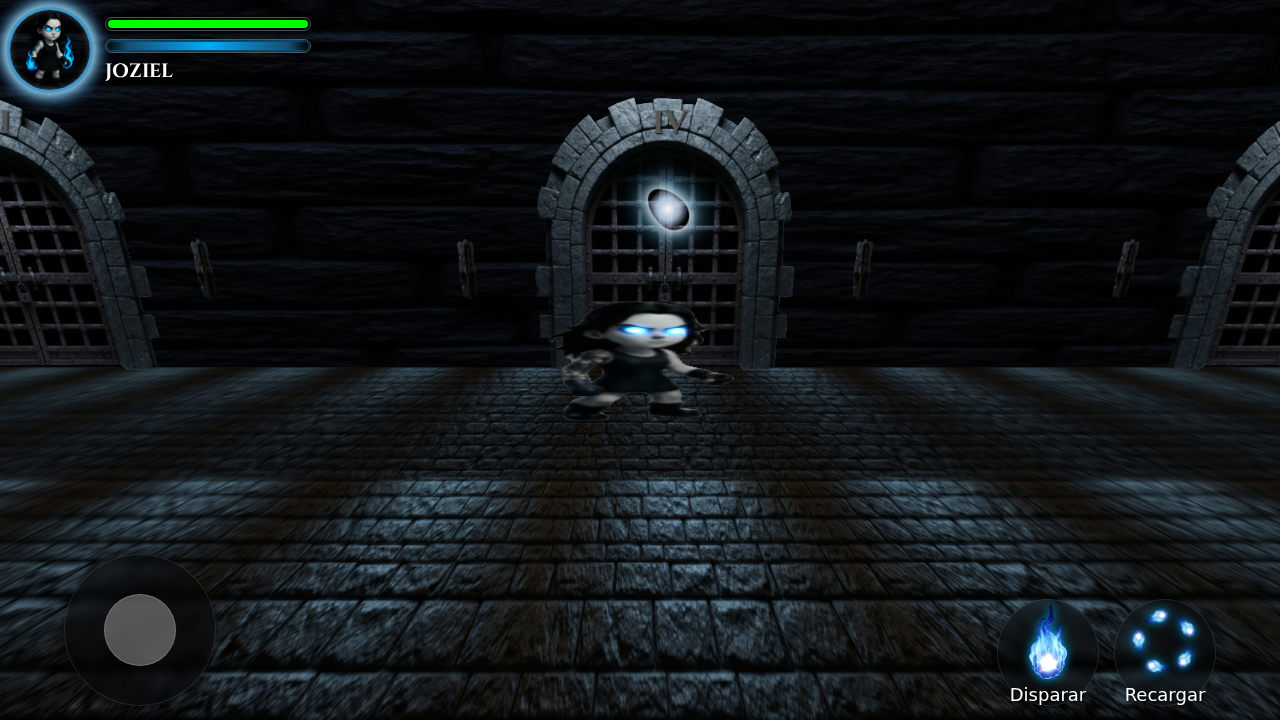
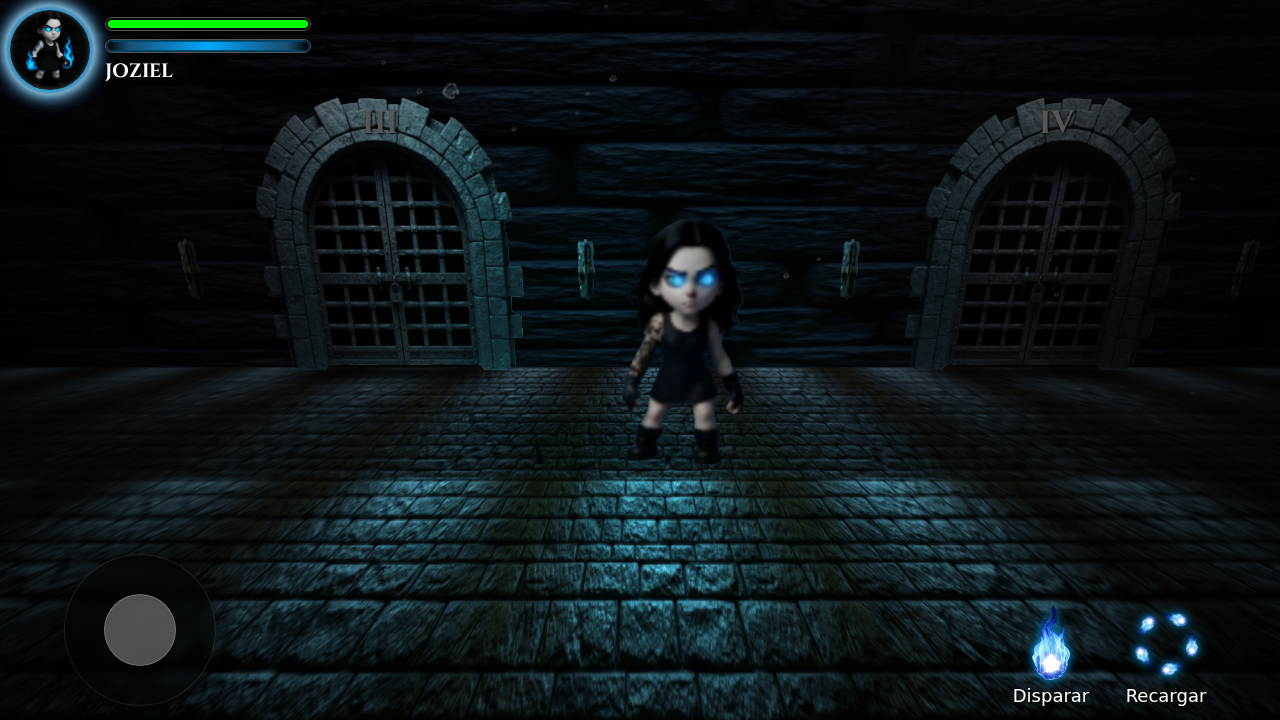
Implement dedicated Left Idle sprite (idle-B.png)
- Added `idleBackSprite` to asset configuration.
- Updated `Player` class to load and use `idle-B.png` when facing left in idle state.
- Modified rotation logic to prevent mirroring (rotation Y=0) for left-facing idle.
- Adjusted shadow/glow mesh scaling for correct orientation in left-idle state.

diff --git a/Lumenfall-juego/js/game.js b/Lumenfall-juego/js/game.js
@@ -5,6 +5,7 @@
             runningBackSprite: 'assets/sprites/Joziel/Movimiento-B/Movimiento-B-1.png',
             runningShadowSprite: 'assets/sprites/Joziel/Sombras-efectos/Sombra-correr-1.jpg',
             idleSprite: 'assets/sprites/Joziel/Movimiento/Idle.png',
+            idleBackSprite: 'assets/sprites/Joziel/Movimiento-B/idle-B.png',
             idleShadowSprite: 'assets/sprites/Joziel/Sombras-efectos/Idle-sombra.jpg',
             attackSprite: 'assets/sprites/Joziel/attack_sprite_sheet.png',
     jumpSprite: 'assets/sprites/Joziel/Movimiento/saltar.png',
@@ -1042,6 +1043,7 @@ function triggerDistantThunder() {
                 this.runningBackTexture = textureLoader.load(assetUrls.runningBackSprite);
                 this.runningShadowTexture = textureLoader.load(assetUrls.runningShadowSprite);
                 this.idleTexture = textureLoader.load(assetUrls.idleSprite);
+                this.idleBackTexture = textureLoader.load(assetUrls.idleBackSprite);
                 this.idleShadowTexture = textureLoader.load(assetUrls.idleShadowSprite);
                 this.attackTexture = textureLoader.load(assetUrls.attackSprite);
                 this.jumpTexture = textureLoader.load(assetUrls.jumpSprite);
@@ -1054,6 +1056,7 @@ function triggerDistantThunder() {
 
                 // Configurar texturas de Idle (Strip 1x5)
                 this.idleTexture.repeat.set(1 / totalIdleFrames, 1);
+                this.idleBackTexture.repeat.set(1 / totalIdleFrames, 1);
                 this.idleShadowTexture.repeat.set(1 / totalIdleFrames, 1);
 
         // Configurar texturas de Salto
@@ -1533,8 +1536,8 @@ function triggerDistantThunder() {
                 this.mesh.position.x = Math.max(this.minPlayerX, Math.min(this.maxPlayerX, this.mesh.position.x));
 
                 // Rotación del personaje
-                if (this.isFacingLeft && (this.currentState === 'running' || this.currentState === 'jumping' || this.currentState === 'landing')) {
-                     // Caso especial: Running, Jumping, Landing Left usa sprites (Movimiento-B, saltar-b) que ya están orientados a la izquierda
+                if (this.isFacingLeft && (this.currentState === 'running' || this.currentState === 'jumping' || this.currentState === 'landing' || this.currentState === 'idle')) {
+                     // Caso especial: Running, Jumping, Landing Left y Idle Left usa sprites (Movimiento-B, saltar-b, idle-B) que ya están orientados a la izquierda
                      this.mesh.rotation.y = 0;
                 } else {
                      this.mesh.rotation.y = this.isFacingLeft ? Math.PI : 0;
@@ -1568,7 +1571,7 @@ function triggerDistantThunder() {
         }
 
                 const stateChanged = this.currentState !== previousState;
-        const directionChanged = (this.currentState === 'running' || this.currentState === 'jumping' || this.currentState === 'landing') && this.isFacingLeft !== wasFacingLeft;
+        const directionChanged = (this.currentState === 'running' || this.currentState === 'jumping' || this.currentState === 'landing' || this.currentState === 'idle') && this.isFacingLeft !== wasFacingLeft;
 
         if (stateChanged || directionChanged) {
              // Scale Logic Adjustment
@@ -1697,7 +1700,11 @@ function triggerDistantThunder() {
                             break;
 
                         case 'idle':
-                            [totalFrames, currentTexture, shadowTexture] = [totalIdleFrames, this.idleTexture, this.idleShadowTexture];
+                            if (this.isFacingLeft) {
+                                [totalFrames, currentTexture, shadowTexture] = [totalIdleFrames, this.idleBackTexture, this.idleShadowTexture];
+                            } else {
+                                [totalFrames, currentTexture, shadowTexture] = [totalIdleFrames, this.idleTexture, this.idleShadowTexture];
+                            }
                             this.currentFrame = (this.currentFrame + 1) % totalFrames;
                             break;
                         default:
@@ -1750,8 +1757,16 @@ function triggerDistantThunder() {
                         // Lógica especial para mapear la sombra cuando se corre a la izquierda
                         // Movimiento-B usa frames 5-10 (6 frames) en bucle.
                         // Sombra-correr tiene 9 frames (0-8). Queremos usar los "últimos 4" (5, 6, 7, 8).
-                        if (this.isFacingLeft && this.currentState === 'running') {
+                        if (this.isFacingLeft && (this.currentState === 'running' || this.currentState === 'idle')) {
                             this.glowMesh.scale.x = -1; // Espejo (mirar izquierda)
+
+                            if (this.currentState === 'idle') {
+                                // Para Idle Left, solo aseguramos que el offset sea correcto (0-4)
+                                // La textura de sombra ya está cargada
+                                // No hay mapeo complejo como en running
+                                this.glowMesh.material.map.repeat.copy(currentTexture.repeat);
+                                this.glowMesh.material.map.offset.copy(currentTexture.offset);
+                            }
 
                             // Mapear los frames de Movimiento-B (5..10) a los frames de Sombra (5..8)
                             // Ciclo simple: 5->5, 6->6, 7->7, 8->8, 9->5, 10->6...

diff --git a/verification/verify_idle_left.py b/verification/verify_idle_left.py
@@ -1,0 +1,100 @@
+from playwright.sync_api import sync_playwright, expect
+import time
+
+def verify_idle_left():
+    with sync_playwright() as p:
+        browser = p.chromium.launch(headless=True)
+        # Removed autoplay permission as it caused an error
+        context = browser.new_context()
+        page = context.new_page()
+
+        # 1. Load the game
+        page.goto("http://localhost:8000/Lumenfall-juego/index.html")
+
+        # 2. Start Game (Click Splash Screen, then Play Button)
+        print("Waiting for start button...")
+        page.wait_for_selector('#start-button', state='visible')
+        page.click('#start-button')
+
+        print("Waiting for play button...")
+        page.wait_for_selector('#play-button', state='visible', timeout=10000)
+        time.sleep(1) # Ensure opacity transition
+        page.click('#play-button')
+
+        print("Waiting for player initialization...")
+        page.wait_for_function("() => window.player && window.player.mesh")
+
+        # 3. Simulate Move Left
+        print("Simulating Move Left...")
+
+        # Get joystick location
+        joystick = page.locator('#joystick-container')
+        box = joystick.bounding_box()
+        center_x = box['x'] + box['width'] / 2
+        center_y = box['y'] + box['height'] / 2
+
+        # Drag from center to Left
+        page.mouse.move(center_x, center_y)
+        page.mouse.down()
+        page.mouse.move(center_x - 50, center_y) # Move Left
+
+        print("Holding Left...")
+        time.sleep(0.5)
+
+        # Verify we are running left
+        state = page.evaluate("window.player.currentState")
+        facing = page.evaluate("window.player.isFacingLeft")
+        print(f"State during move: {state}, Facing Left: {facing}")
+
+        if state != 'running' or not facing:
+            print("Failed to move left.")
+
+        # 4. Release to enter Idle
+        print("Releasing Joystick (Idle)...")
+        page.mouse.up()
+
+        time.sleep(1.0) # Wait for state to settle to idle
+
+        # 5. Verify State
+        print("Verifying Idle Left State...")
+        player_state = page.evaluate("""() => {
+            const p = window.player;
+            return {
+                currentState: p.currentState,
+                isFacingLeft: p.isFacingLeft,
+                rotationY: p.mesh.rotation.y,
+                glowMeshScaleX: p.glowMesh.scale.x,
+                textureSrc: p.mesh.material.map.image ? p.mesh.material.map.image.src : 'no-image'
+            }
+        }""")
+
+        print("Player State:", player_state)
+
+        # Assertions
+        if player_state['currentState'] != 'idle':
+            print("Error: Player is not idle.")
+
+        if not player_state['isFacingLeft']:
+            print("Error: Player is not facing left.")
+
+        if abs(player_state['rotationY']) > 0.01:
+            print(f"Error: Rotation Y should be 0, got {player_state['rotationY']}")
+        else:
+            print("Success: Rotation Y is 0.")
+
+        if player_state['glowMeshScaleX'] != -1:
+            print(f"Error: GlowMesh Scale X should be -1, got {player_state['glowMeshScaleX']}")
+        else:
+            print("Success: GlowMesh Scale X is -1.")
+
+        if 'idle-B.png' in player_state['textureSrc']:
+            print("Success: Texture is idle-B.png")
+        else:
+            print(f"Error: Texture is {player_state['textureSrc']}")
+
+        page.screenshot(path="verification/verification.png")
+        print("Screenshot saved.")
+        browser.close()
+
+if __name__ == "__main__":
+    verify_idle_left()
